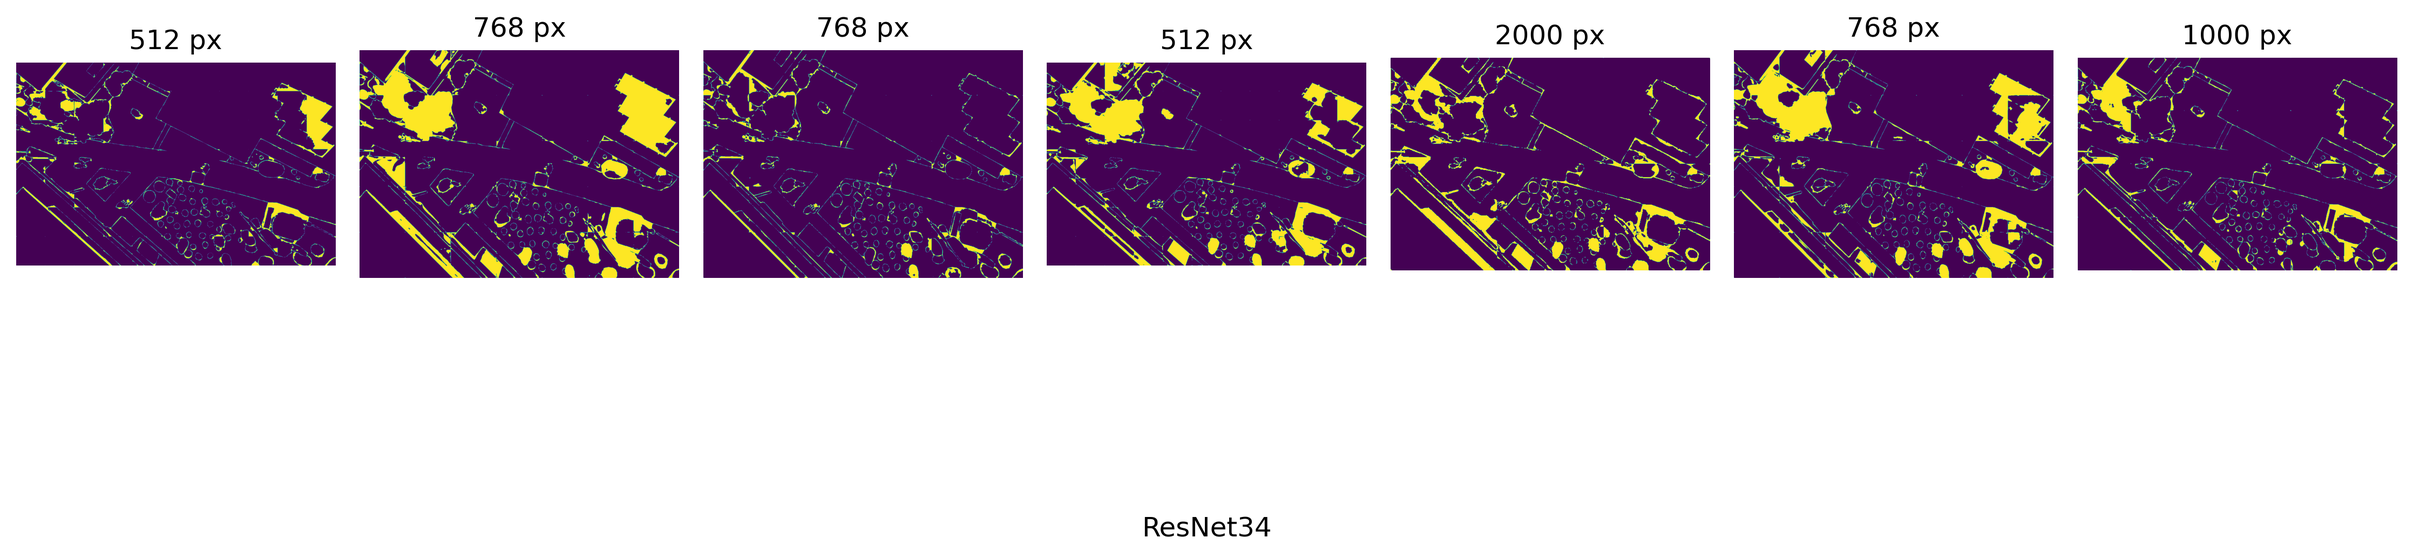
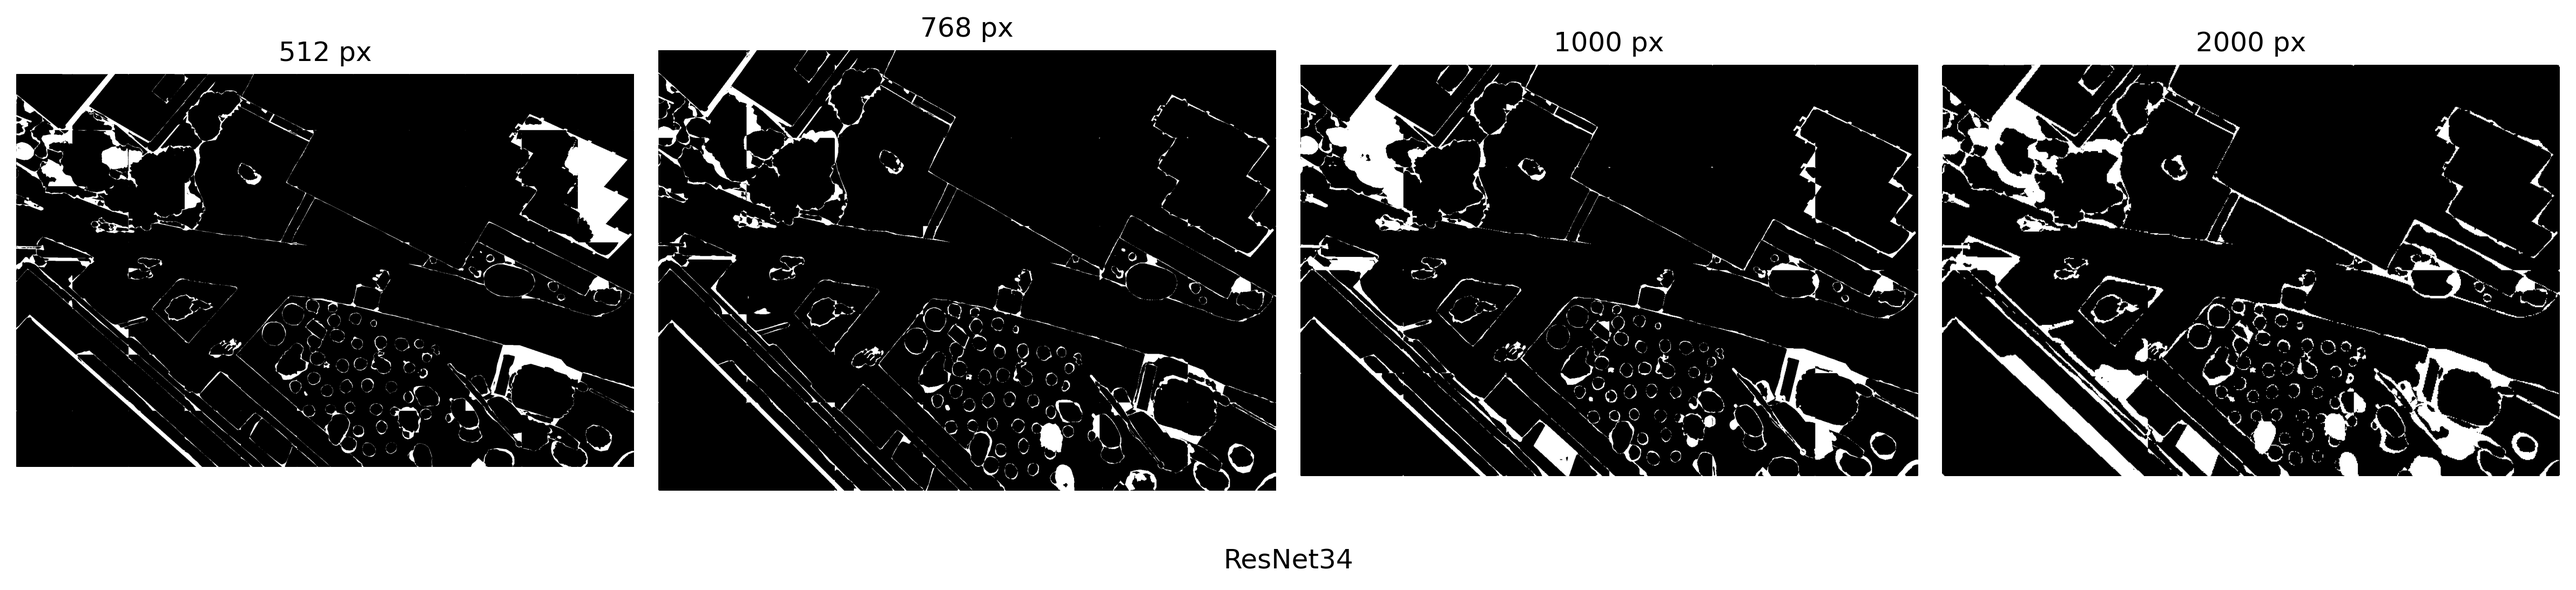
BigImaging: Create readme file

diff --git a/Environment/exam/utils/utils.py b/Environment/exam/utils/utils.py
@@ -199,9 +199,11 @@ def plot_different_sizes(
                 tile_sizes.append(model_tiles_dim)
 
 
-    fig, axes = plt.subplots(1, len(tile_sizes), figsize=(15, 5), dpi=300)
-    for i, (diff_mask, tiles_size) in enumerate(zip(diff_masks, tile_sizes)):
-        axes[i].imshow(diff_mask)
+    fig, axes = plt.subplots(1, len(tile_sizes), figsize=(16, 4), dpi=300)
+    zipped = zip(diff_masks, tile_sizes)
+    zipped = sorted(zipped, key=lambda x: x[1])
+    for i, (diff_mask, tiles_size) in enumerate(zipped):
+        axes[i].imshow(diff_mask, cmap='gray')
         axes[i].set_title(f'{tiles_size} px')
         axes[i].axis('off')
 

diff --git a/BigImaging/Exam/readme.md b/BigImaging/Exam/readme.md
@@ -1,0 +1,54 @@
+# SkySegmenter: Semantic Segmentation of Urban Drone Imagery
+
+## Overview
+
+SkySegmenter is a project aimed at performing semantic segmentation on urban drone imagery using the DeepLabv3+ architecture with various encoders. The project includes a dashboard for visualizing segmentation results and comparing different models.
+
+## Project Structure
+├── dashboard.py
+├── models/
+    └── best/
+├── utils/
+    ├── evaluate.py 
+    ├── tiling.py 
+    ├── train.py 
+    └── utils.py
+├── data/ 
+    ├── original_images/ 
+    ├── label_images_semantic/ 
+    ├── RGB_color_image_masks/ 
+    └── tiles_256/
+├── main.py
+└── README.md
+
+
+## Getting Started
+
+### Prerequisites
+
+- Python 3.8 or higher
+- Required Python packages (listed in [`requirements.txt`])
+
+### Installation
+
+1. **Clone the repository:**
+
+2. **Create a virtual environment and activate it:**
+
+    ```sh
+    python -m venv .venv
+    source .venv/bin/activate  # On Windows use `.venv\Scripts\activate`
+    ```
+
+3. **Install the required packages:**
+
+    ```sh
+    pip install -r requirements.txt
+    ```
+
+### Running the Dashboard
+
+To run the dashboard, simply execute the `dashboard.py` script. Make sure to place your trained models in the [`models/best`] directory.
+
+```sh
+python dashboard.py
